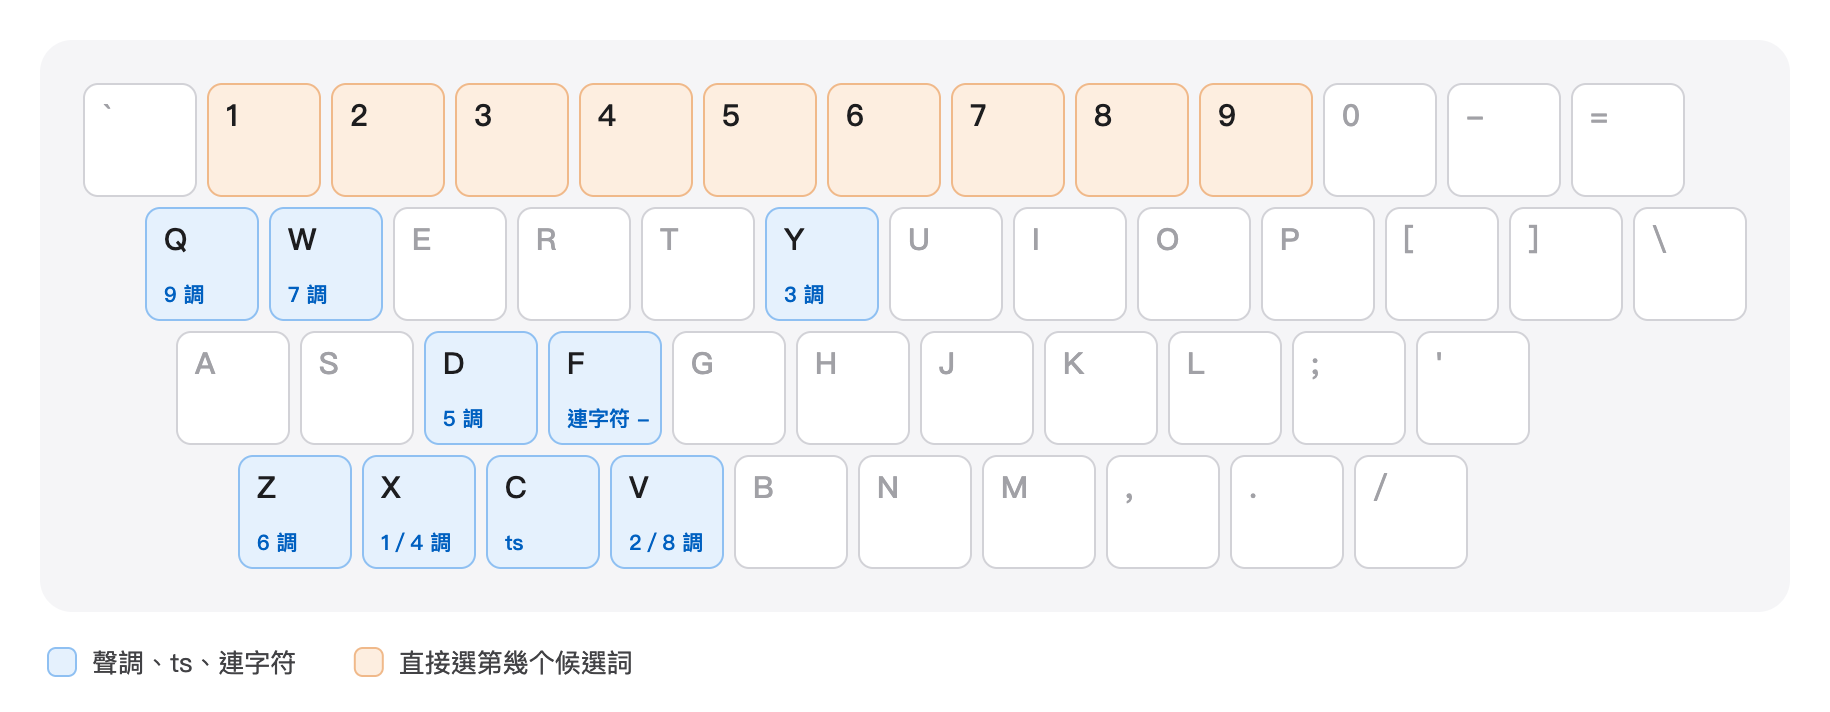
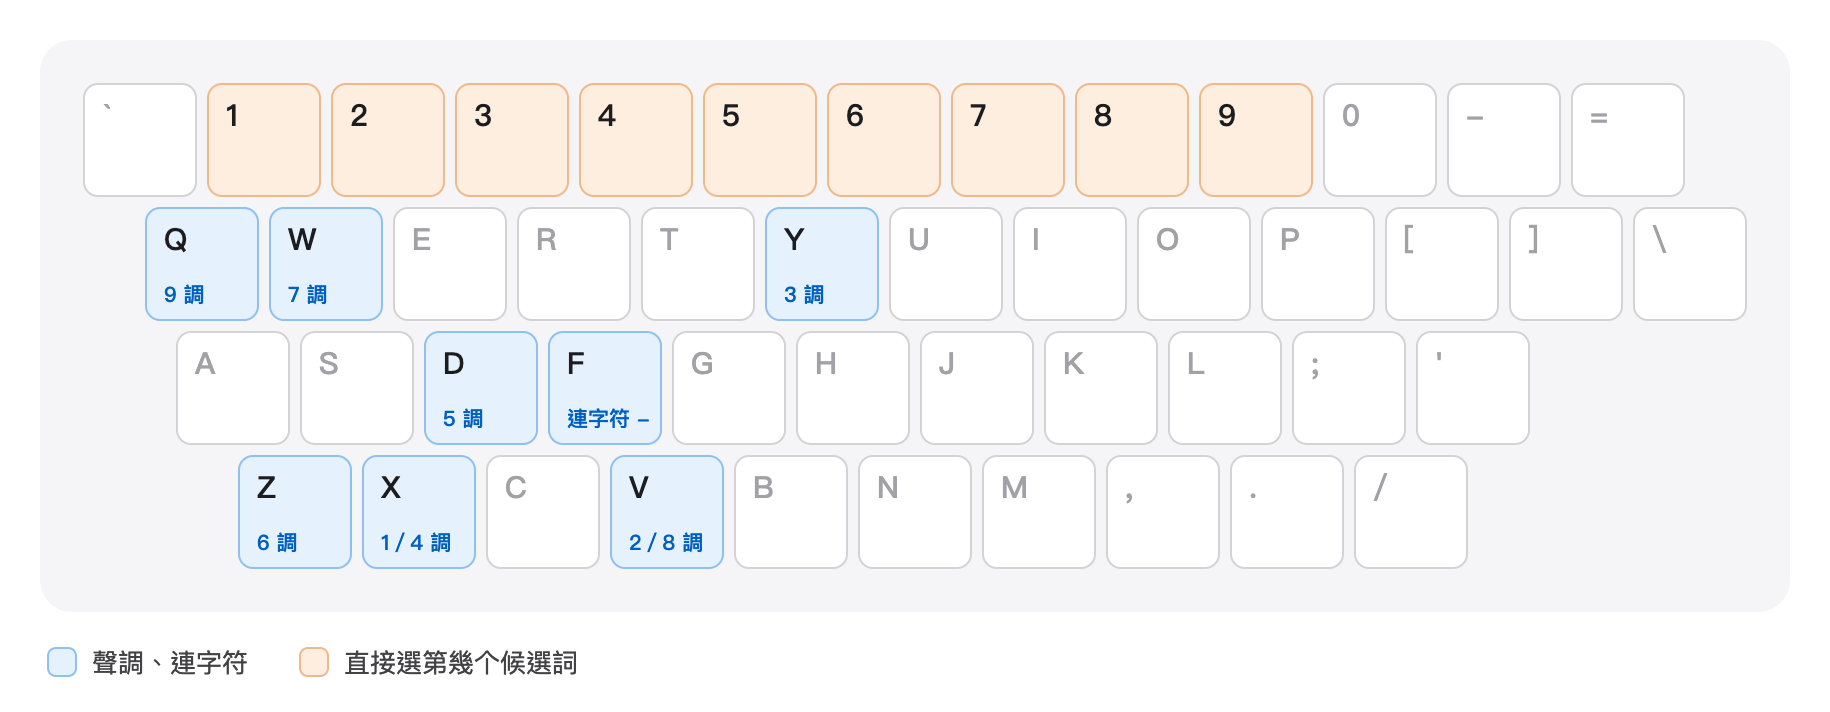
docs: record the c affricate setting and the Telex key change
Invariant 62 now lists only the tone letters and f as Telex keys and adds
INVARIANT_C_TYPES_AFFRICATE for the new setting. The manual drops the c / ch
rows from the Telex table and explains the setting; the Telex keyboard
picture and both cheatsheets are re-rendered.

Changed region(s): [[0.2492, 0.618, 0.3426, 0.8034], [0.0934, 0.8961, 0.3426, 0.9579]]

diff --git a/media/manual/cheatsheet.html b/media/manual/cheatsheet.html
@@ -104,7 +104,7 @@ footer .right { margin-left: auto; }
       <div class="row">數字調（預設）：字母後壁拍數字，<span class="typed">tai5gi2</span> → tâi-gí</div>
       <div><b>a</b><kbd>1</kbd></div><div><b>á</b><kbd>2</kbd></div><div><b>à</b><kbd>3</kbd></div><div><b>ah</b><kbd>4</kbd></div>
       <div><b>â</b><kbd>5</kbd></div><div><b>ā</b><kbd>7</kbd></div><div><b>a̍h</b><kbd>8</kbd></div><div><b>a̋</b><kbd>9</kbd></div>
-      <div class="row" style="margin-top:6px">Telex：手免離開字母區，<span class="typed">taidgiv</span> → tâi-gí；選字換用數字齒 1–9。　<kbd>z</kbd> = 第 6 調　<kbd>c</kbd> = ts　<kbd>f</kbd> = 連字符</div>
+      <div class="row" style="margin-top:6px">Telex：手免離開字母區，<span class="typed">taidgiv</span> → tâi-gí；選字換用數字齒 1–9。　<kbd>z</kbd> = 第 6 調　<kbd>f</kbd> = 連字符</div>
       <div><b>a</b><kbd>x</kbd></div><div><b>á</b><kbd>v</kbd></div><div><b>à</b><kbd>y</kbd></div><div><b>ah</b><kbd>x</kbd></div>
       <div><b>â</b><kbd>d</kbd></div><div><b>ā</b><kbd>w</kbd></div><div><b>a̍h</b><kbd>v</kbd></div><div><b>a̋</b><kbd>q</kbd></div>
     </div>

diff --git a/media/manual/keyboards.py b/media/manual/keyboards.py
@@ -321,10 +321,10 @@ def tones_numeric():
 def tones_telex():
     result = marks("blue", {
         "x": "1／4 調", "v": "2／8 調", "y": "3 調", "d": "5 調", "z": "6 調", "w": "7 調", "q": "9 調",
-        "c": "ts", "f": "連字符 -",
+        "f": "連字符 -",
     })
     result.update(marks("orange", {str(n): None for n in range(1, 10)}))
-    return result, [("blue", "聲調、ts、連字符"), ("orange", "直接選第幾个候選詞")]
+    return result, [("blue", "聲調、連字符"), ("orange", "直接選第幾个候選詞")]
 
 
 def pictures():

diff --git a/docs/architecture/behavioral-invariants.md b/docs/architecture/behavioral-invariants.md
@@ -1308,19 +1308,26 @@ IMK can activate a second controller (a system client) while it keeps delivering
 
 ---
 
-## §62 — Telex writes tone 6 on `z` and the affricate on `c`, the same in TL and POJ
+## §62 — Telex writes tone 6 on `z`; `c` → `ts` / `ch` is its own opt-in setting
 
 ### `INVARIANT_TELEX_KEY_TABLE`
 
-The desktop Telex scheme reaches every tone from the letter keys (USER 2026-11-05, #683). This replaces the 2026-09 table in `docs/reports/desktop-3.6.x-design-notes.md`, which offered no tone 6 and kept `c` a plain letter. Rules live in `engine/composing/src/telex.rs`; macOS, Windows and Linux classify on `ToneInputScheme::TELEX_KEYS`:
+The desktop Telex scheme reaches every tone from the letter keys (USER 2026-11-05, #683). This replaces the 2026-09 table in `docs/reports/desktop-3.6.x-design-notes.md`, which offered no tone 6. Rules live in `engine/composing/src/telex.rs`; macOS, Windows and Linux classify on `ToneInputScheme::TELEX_KEYS` (`x v y d z w q f`):
 
 - **`z` / `Z` is a single-tone key**, like `y d w q`: it writes tone 6 on any syllable, a stop coda included (`sit` + `z` → `sit6`), and passes to the host when idle.
-- **`c` / `C` writes the affricate initial**: `ts` under TL, `ch` under POJ, `Ts` / `Ch` capitalized. `h` then aspirates it. It starts a composition when idle.
-- **`h` after `tsh` / `chh` does nothing**, in any letter case, so a spelled-out POJ `c` `h` `h` `i` `a` is still `chhia`. No syllable has `tshh` / `chhh`. Under Telex every `h` goes to the engine for this, and otherwise lands exactly where `Append` would. It is dropped when typed rather than folded at lookup, so the composition, a commit as typed and every lookup read the same text.
-- **Spelled-out POJ `cha` reaches `chha`.** `c` `h` could mean either initial, and both are real, so nothing short of remembering how the buffer was typed tells them apart. Accepted: TL and POJ keep one rule.
-- **An idle `f` / `F` is the `-` key** (#727): it inserts a literal `-` and the engine stays idle, as a leading `-` does (`INVARIANT_KHINSIANN_LEADING_MARKER_LITERAL`, §21), so `f` `f` `a` `h` types `--` and composes `ah`. Repeats are uncapped (`fff` → `---`). The engine decides this in the `Phase::Idle` arm of `telex_key` (`engine/composing/src/transition.rs`); `apply_telex_key` still sees only the tail and answers `None` on an empty one, so `f` on an empty tail while composing is still a no-op. The desktop lets `f` through when idle via `ToneInputScheme::reaches_engine_when_idle`. Accepted cost: an idle `f` can no longer type the letter `f` under Telex; English goes through an English input method.
-- **A custom word spelled with a bare `c` cannot be typed under Telex**, as with the other Telex letters.
-- **Standard does not change.** It shares eight letters with Telex, swapped with the digits; `c` and `h` stay plain letters there.
+- **`c` and `h` are not Telex keys** (2026-11-09). Both are ordinary letters under either scheme and reach the engine as `Append`. The 2026-11-05 table had `c` write the affricate and dropped an `h` after `tsh` / `chh`; the `h` rule is gone, and the affricate moved to its own setting (`INVARIANT_C_TYPES_AFFRICATE` below).
+- **An idle `f` / `F` is the `-` key** (#727): it inserts a literal `-` and the engine stays idle, as a leading `-` does (`INVARIANT_KHINSIANN_LEADING_MARKER_LITERAL`, §21), so `f` `f` `a` `h` types `--` and composes `ah`. Repeats are uncapped (`fff` → `---`). The engine decides this in the `Phase::Idle` arm of `telex_key` (`engine/composing/src/transition.rs`); `apply_telex_key` still sees only the tail and answers `None` on an empty one, so `f` on an empty tail while composing is still a no-op. No other Telex key starts a composition. The desktop lets `f` through when idle via `ToneInputScheme::reaches_engine_when_idle`. Accepted cost: an idle `f` can no longer type the letter `f` under Telex; English goes through an English input method.
+- **A custom word spelled with a Telex letter cannot be typed under Telex.**
+- **Standard does not change.** It shares eight letters with Telex, swapped with the digits.
+
+### `INVARIANT_C_TYPES_AFFRICATE`
+
+**Type ts / ch with c** (settings key `cAffricateEnabled`, desktop only, OFF by default, 2026-11-09) makes a typed `c` write the unaspirated affricate initial: `ts` / `Ts` under TL, `ch` / `Ch` under POJ. It is independent of the tone scheme.
+
+- **Engine-side, on `Append`.** Desktop-core sends the setting as `AppConfig.c_types_affricate`; `engine/composing/src/affricate.rs` rewrites an `Append` of exactly `c` / `C`, idle or composing, at the caret. Every other key, TPS and English are untouched. Desktop-core sends it off under TPS as well (`SettingsDocument::engine_settings`).
+- **`h` writes itself**, so `c` `h` spells the aspirated initial (`tsh` / `chh`). There is no slip rule: a spelled-out POJ `c` `h` `h` `i` `a` composes `chhhia`.
+- **Spelled-out POJ `cha` reaches `chha`** with the setting on. `c` `h` could mean either initial, and both are real; turn the setting off to type POJ letter by letter.
+- **A custom word spelled with a bare `c` cannot be typed** with the setting on.
 
 ---
 

diff --git a/media/manual/README.md b/media/manual/README.md
@@ -106,8 +106,6 @@ macOS 的符號：`⌃` control、`⌥` option、`⌘` command、`⇧` shift。
 | `z` | 第 6 調 |
 | `w` | 第 7 調 |
 | `q` | 第 9 調 |
-| `c` | ts（白話字 ch） |
-| `c` `h` | tsh（白話字 chh） |
 | `f` | 連字符 - |
 
 猶未開始拍字的時，`f` 嘛是連字符，拍輕聲免揤 `-`：`ffah` → `--ah`。所以 Telex 拍袂出英文字母 f，愛拍英文就切換英文輸入法。
@@ -115,6 +113,10 @@ macOS 的符號：`⌃` control、`⌥` option、`⌘` command、`⇧` shift。
 袂記得的時，揤 `⌃` `⌘` `/`（Windows、Linux：`Ctrl` `Alt` `/`），Telex 說明會留佇畫面，予你通那看那拍；閣揤一擺就收起來。
 
 ![Telex 的選字窗](shots/tone-telex.png) ![Telex 說明](shots/panel-telex-guide.png)
+
+### 用 c 拍 ts／ch
+
+設定 → 一般 → 用 c 拍 ts／ch，預設是關的。拍開了後，`c` 是 ts（白話字 ch），`c` `h` 是 tsh（白話字 chh），數字調、Telex 攏會當用。白話字的 `cha` 按呢會變做 `chha`，欲照字母一个一个拍，就共關掉。
 
 ## 標點符號
 
